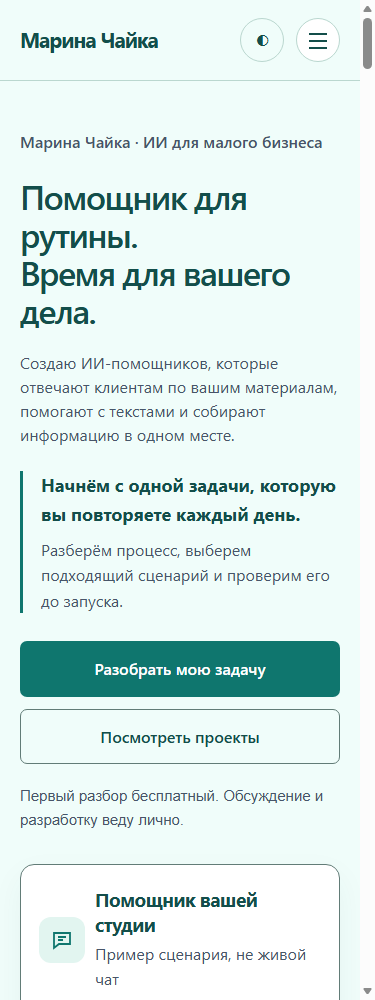
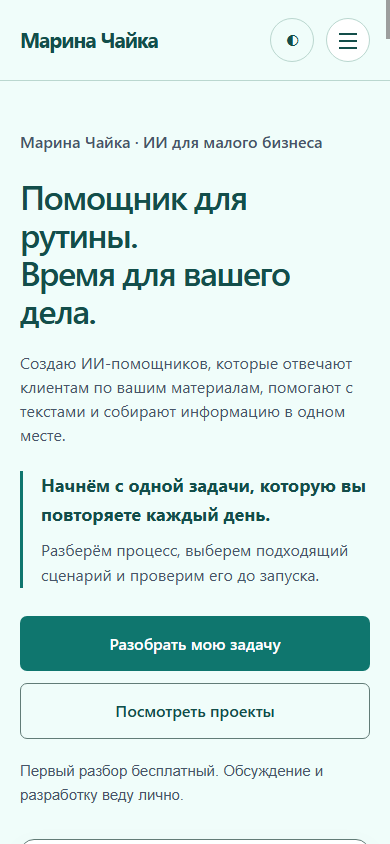
Redesign landing for AI assistants offer; add project documentation

diff --git a/privacy.html b/privacy.html
@@ -52,7 +52,7 @@
 
     <section aria-labelledby="browser-heading">
       <h2 id="browser-heading">4. Настройки браузера и внешние сервисы</h2>
-      <p>Лендинг сохраняет выбранную светлую или тёмную тему в localStorage под ключом «theme». Эта настройка не содержит имя, email или текст обращения. Её можно удалить, очистив данные сайта в браузере.</p>
+      <p>Переключение светлой и тёмной темы действует на текущей странице. Код сайта не сохраняет выбранную тему или ответы формы в localStorage, sessionStorage или cookies. При перезагрузке страница снова открывается в светлой теме.</p>
       <p>В текущем коде сайта нет счётчиков аналитики, рекламных пикселей или установки cookies. При этом провайдер размещения сайта может обрабатывать технические сведения запросов, например IP-адрес и данные браузера, в соответствии со своими условиями.</p>
       <p>На главной странице шрифты загружаются через Google Fonts. При загрузке браузер обращается к серверам Google и передаёт технические сведения запроса. Подробнее — в <a href="https://developers.google.com/fonts/faq/privacy" target="_blank" rel="noopener noreferrer">описании конфиденциальности Google Fonts</a>.</p>
       <p>При переходе в мессенджеры и отправке сообщений действуют также правила выбранного сервиса: <a href="https://telegram.org/privacy" target="_blank" rel="noopener noreferrer">Telegram</a> и <a href="https://www.whatsapp.com/legal/privacy-policy" target="_blank" rel="noopener noreferrer">WhatsApp</a>.</p>

diff --git a/index.html b/index.html
@@ -576,7 +576,7 @@
             <p>Разрабатываю сервис с кабинетом клиентов, подключением Яндекс.Директа и Метрики и обзором рекламных показателей. Отчёт сравнивает периоды и выделяет то, что требует внимания.</p>
             <p>На скриншотах — экраны текущей версии. Пример отчёта показан на демонстрационных данных.</p>
           </div>
-          <a href="#contact" class="btn btn-ghost" style="white-space:nowrap;">Обсудить похожую задачу</a>
+          <a href="https://direct-reports.vercel.app/demo" class="btn btn-ghost" target="_blank" rel="noopener noreferrer" aria-label="Открыть демо Direct Reports в новой вкладке">Открыть демо ↗</a>
           <div class="project-preview project-screenshots" aria-label="Скриншоты Direct Reports">
             <div class="preview-label">Direct Reports — экраны приложения</div>
             <div class="screenshots-grid">

diff --git a/README.md b/README.md
@@ -4,13 +4,37 @@
 
 Сайт на Vercel: https://my-lending-test-theta.vercel.app/ (ссылка из карточки GitHub; развёртывание текущего редизайна нужно проверять отдельно).
 
-Статический сайт на HTML, CSS и JavaScript без сборщика и собственного API. Основное предложение — ИИ-помощники для малого бизнеса. Реальные кейсы, цены и контакты сохранены.
+Сайт-портфолио Марины Чайки на HTML, CSS и JavaScript: услуги, цены и проекты. Основное предложение — ИИ-помощники для малого бизнеса. Самих ботов, нейросетей, сервера, базы данных и платежей в этом репозитории нет. Переписка на первом экране — демонстрация, не живой чат.
+
+## Что нужно для работы
+
+- Для просмотра — браузер и файлы проекта.
+- Для проверки кода — Node.js; в рабочей среде использовалась версия 24.
+- Для локального HTTP-сервера — Python 3, если выбираете этот способ запуска.
+- Для получения и отправки кода — Git и доступ к GitHub.
+
+Установка npm-пакетов не нужна: package.json, сборщика и внешних JavaScript-библиотек нет. API-ключи и .env не нужны: код не читает переменные окружения. Интернет нужен для Google Fonts и переходов во внешние сервисы; без веб-шрифтов используются системные sans-serif.
 
 ## Где искать и как открыть
 
-Рабочая копия GitHub на компьютере: `C:\Users\Марина\Documents\Projects\yandex-direct-lending\github-sync`.
+Рабочая копия GitHub на компьютере: `C:\Users\Марина\Documents\Projects\my-lending-test`.
 
-В Проводнике откройте эту папку и дважды нажмите `index.html`: сайт откроется в браузере. Для редактирования откройте папку `github-sync` в VS Code.
+В Проводнике откройте эту папку и дважды нажмите `index.html`: сайт откроется в браузере. Для редактирования откройте папку `my-lending-test` в VS Code.
+
+Для запуска через локальный сервер откройте терминал в папке проекта:
+
+```powershell
+python -m http.server 8000 --bind 127.0.0.1
+```
+
+Откройте `http://127.0.0.1:8000`. Остановка — `Ctrl+C`.
+
+На другом компьютере сначала получите проект:
+
+```powershell
+git clone https://github.com/chajjka93-source/my-lending-test.git
+cd my-lending-test
+```
 
 | Файл | Назначение |
 | --- | --- |
@@ -20,10 +44,64 @@
 | `assets/` | Фото автора и реальные скриншоты проектов |
 | `docs/AI-DESIGN.md` | Дизайн-система и проверки доступности |
 | `docs/TECHNICAL.md` | Устройство проекта и работа с Git |
-| `preview-desktop.png`, `preview-mobile.png` | Превью редизайна с системными шрифтами |
+| `ARCHITECTURE.md` | Части сайта, данные и связи; границы спецификации |
+| `CLAUDE.md`, `AGENTS.md` | Правила для AI-агентов |
+| `CHANGELOG.md` | История изменений |
+| `.env.example` | Почему ключи окружения сейчас не нужны |
+| `thoughts/shared/specs/` | Спецификация планируемого Telegram-бота |
+| `research.md`, `design-references.md` | Исследования и история дизайна |
+| `preview-desktop.png`, `preview-mobile.png` | Скриншоты, перезаписываемые `browser-review.cjs` |
+| `review-output/` | Локальные скриншоты светлой и тёмной тем на ширинах 1440 и 390 px из проверки 11 октября 2026 года |
 
 Дизайн: светлая бирюзовая палитра, Golos Text для заголовков и Source Sans 3 для текста. Предусмотрены тёмная тема и видимый клавиатурный фокус.
 
-Проверка кода из папки проекта: `node verify.cjs`. Формы готовят сообщение в браузере; посетитель самостоятельно отправляет его в Telegram.
+## Что работает
 
-Параллельная копия для ChatGPT Sites находится в `../studio-source`, где исходники лежат в `public/`, а публикуемая копия — в `dist/`. Не путайте её с этой структурой GitHub: здесь файлы сайта находятся в корне.
+Карточка Direct Reports в разделе кейсов содержит ссылку на внешнее [демо приложения](https://direct-reports.vercel.app/demo). Исходники этого приложения не входят в репозиторий лендинга.
+
+Светлая и тёмная темы, мобильное меню, FAQ, квиз из трёх шагов, проверка контактной формы, подготовка и копирование текста, ссылки на мессенджеры и email. Предусмотрены видимый клавиатурный фокус и уменьшенная анимация.
+
+По умолчанию главная страница открывается в светлой теме. Кнопка ◐ переключает светлую и тёмную темы на текущей странице. Формы не отправляют заявки: посетитель сам вставляет и отправляет текст в Telegram. Если копирование недоступно, сайт предлагает скопировать выделенный текст вручную. Код не сохраняет выбранную тему и ответы в localStorage, sessionStorage или cookies.
+
+Квиз спрашивает сферу бизнеса, цель и детали задачи; имя и описание нужны для подготовки запроса, ссылка на сайт или соцсети необязательна. Контактная форма проверяет имя, email и сообщение, затем показывает готовый текст. Можно вернуться к ответам квиза или контактной форме для редактирования.
+
+Спецификация в thoughts/shared/specs описывает будущий бот, панель мастеров, записи, напоминания и подписку. Их серверной реализации здесь нет. Подробности — в [ARCHITECTURE.md](ARCHITECTURE.md#спецификация-и-реализация).
+
+## Как проверить
+
+Из папки проекта:
+
+```powershell
+node verify.cjs
+git diff --check
+```
+
+`verify.cjs` проверяет синтаксис встроенного JavaScript, дубли ID, якоря и наличие `premium.css`. Это не проверка изображений, доступности или работы интерфейса. Отсутствие CSS выводится как `css: false`, но само по себе не устанавливает ненулевой код завершения. `git diff --check` проверяет ошибки пробелов в diff.
+
+Для браузерной проверки нужен отдельно запущенный Chromium-браузер с CDP на `127.0.0.1:9333`, отдельным профилем и хотя бы одной вкладкой, а также Node.js с встроенными `fetch` и `WebSocket` (здесь использовался Node.js 24):
+
+```powershell
+node browser-review.cjs
+```
+
+В текущем скрипте URL жёстко задан: `file:///C:/Users/Марина/Documents/Projects/my-lending-test/index.html`. На другом компьютере его нужно изменить. Скрипт сохраняет скриншоты на ширинах 1440 и 390 px, выводит ширину страницы и проверяет открытие меню, Escape, FAQ, подготовку сообщения контактной формы и возврат к форме. Он не переключает темы и не проверяет квиз, ошибки полей, копирование, Tab, изображения или ошибки браузерной консоли. Оценивайте значения в выводе: `false` в результатах взаимодействий не приводит к ненулевому коду завершения. Уточнение пути здесь соответствует коду; описание относительного пути в `docs/TECHNICAL.md` устарело.
+
+Перед завершением правок проверьте обе темы, меню и Escape, квиз, ошибки формы, копирование, FAQ и телефонную версию.
+
+11 октября 2026 года локально выполнены `verify.cjs`, `git diff --check` и `browser-review.cjs`. Дополнительная проверка через CDP охватила обе темы на 1440 и 390 px: переключение тем, прохождение и редактирование квиза, его ошибку при отсутствии выбора, ручной режим копирования и видимый фокус после Tab. Горизонтального переполнения и исключений JavaScript в этой дополнительной проверке не обнаружено; после принудительной загрузки отложенных изображений все изображения загрузились. Автоматическая запись в буфер обмена и опубликованная версия сайта не подтверждены. Скриншоты первых экранов сохранены в `review-output/`.
+
+## Настройки и публикация
+
+Тексты, цены, контакты и ссылки меняются в index.html. Текущий дизайн — в premium.css, подключённом после встроенных стилей. Секреты в HTML и CSS не добавляйте.
+
+В репозитории нет vercel.json и настроек автоматического развёртывания. Успешный push в GitHub не подтверждает публикацию Vercel. .openai/hosting.json содержит идентификатор проекта Sites, не настройки базы или API.
+
+Параллельная копия для ChatGPT Sites находится в `archive/migration-2026-10-10/yandex-direct-lending/studio-source`, где исходники лежат в `public/`, а публикуемая копия — в `dist/`. Не путайте её с этой структурой GitHub: здесь файлы сайта находятся в корне.
+
+## Перенос 10 октября 2026
+
+Единственная рабочая папка — `my-lending-test`; актуальный сайт — `index.html` в корне. Все материалы бывшей папки «Яндекс Директ» сохранены в `archive/migration-2026-10-10/yandex-direct-lending/`, включая незакоммиченные изменения, Git-истории, исходники Sites, проверки, превью и архивы. Прежнее содержимое этой папки сохранено в `archive/migration-2026-10-10/previous-local/`. Архив исключён из Git; в нём больше не ведём работу.
+
+Архив не участвует в работе текущего сайта. Исходники приложения Direct Reports не входят в рабочий код этого лендинга.
+
+На момент проверки 11 октября 2026 года локальная ветка — `main`, последний коммит в `git log` — `6c38cec` (`Update landing offer, review quiz and project screenshots`). `git diff` показывает незакоммиченный редизайн предложения под ИИ-помощников, светлую тему по умолчанию, изменения стилей и доступности, отказ от сохранения темы и обновление документации. Эти изменения уже находились в рабочей папке до проверки в этой сессии. Во время проверки код сайта не менялся; были перезаписаны `preview-desktop.png` и `preview-mobile.png`, созданы `review-output/` и временные профили браузера `.browser-check/`, `.browser-check-edge/`. Затем обновлены README и CLAUDE. Коммит, push и публикация в этой сессии не выполнялись. Незакоммиченные и неотслеживаемые файлы не попадут на другой компьютер через `git clone`.

diff --git a/CLAUDE.md b/CLAUDE.md
@@ -1,0 +1,56 @@
+# Правила для AI-агента
+
+## Постоянное правило
+
+После каждого изменения кода обновляй соответствующую документацию (README, ARCHITECTURE, CHANGELOG, .env.example). Документация всегда должна соответствовать коду.
+
+Перед завершением задачи проверь затронутые документы. Запуск и возможности описывай в README, устройство и данные — в ARCHITECTURE, историю — в CHANGELOG, реально используемые настройки — в .env.example. Не меняй не затронутые разделы и не придумывай ключи.
+
+## Контекст и структура
+
+Это статический сайт Марины Чайки с предложением ИИ-помощников и цифровых услуг. Код ботов, backend, база данных и платежи отсутствуют. Спецификация в `thoughts/shared/specs/` — план другого продукта; не выдавай её требования за реализованные функции сайта.
+
+Рабочая копия GitHub — корень `my-lending-test`, репозиторий `https://github.com/chajjka93-source/my-lending-test`, ветка `main`. Архивная `archive/migration-2026-10-10/yandex-direct-lending/studio-source` — отдельная копия Sites с другой структурой и историей.
+
+- `index.html` — контент, базовые стили, общий JavaScript и отдельный скрипт квиза.
+- `premium.css` — актуальный дизайн, подключён после встроенного CSS.
+- `privacy.html` — описание фактической обработки данных.
+- `assets/` — фото и реальные изображения кейсов.
+- `verify.cjs`, `browser-review.cjs` — инструменты проверки.
+- `README.md`, `ARCHITECTURE.md`, `CHANGELOG.md`, `.env.example` — основные документы.
+- `docs/AI-DESIGN.md` — дизайн-система; `docs/TECHNICAL.md` — Git и проверки.
+- `research.md`, `design-references.md` — история исследований.
+- `thoughts/shared/specs/` — спецификация будущего Telegram-бота.
+- `.openai/hosting.json` — сохранённый идентификатор Sites.
+- `preview-desktop.png`, `preview-mobile.png` — скриншоты, перезаписываемые браузерным скриптом; `review-output/` — локальные превью обеих тем, созданные отдельной проверкой 11 октября 2026 года.
+
+Главная страница по умолчанию светлая (`data-theme="light"`); кнопка `themeToggle` переключает темы без сохранения. Квиз собирает сферу, цель, имя, описание повторяющейся задачи и необязательную ссылку. Контактная форма проверяет имя, email и сообщение. Обе формы только формируют текст; копирование использует Clipboard API с ручным выделением текста при отказе. Сценарий помощника на первом экране — статический пример, без подключения к ИИ. Демо Direct Reports — внешняя ссылка, исходники приложения не входят в рабочий код лендинга.
+
+При проверке истории отделяй `git diff` от изменений текущей сессии: diff показывает все незакоммиченные изменения относительно HEAD. На 11 октября 2026 года локальный HEAD — `6c38cec`, ветка `main`; редизайн уже находился в рабочей папке до этой сессии. В этой сессии проверяли сайт, сохраняли скриншоты и обновляли документацию; коммит, push и публикация не выполнялись. Временные профили `.browser-check/` и `.browser-check-edge/` не являются исходниками сайта и не должны попадать в коммит или публикацию.
+
+## Правила изменений
+
+1. Читай код перед правками. Не добавляй React, npm-зависимости, сборщик или сервер ради текста и CSS.
+2. Сохраняй ID, используемые скриптами и якорями. При переименовании обновляй все ссылки и обработчики.
+3. Учитывай каскад CSS и поздние переопределения. Проверяй обе темы и мобильную версию.
+4. Формы только готовят текст. Не показывай «отправлено», пока реальной отправки нет. Пользователь сам отправляет сообщение в Telegram.
+5. При изменении обработки данных обновляй privacy.html. Сейчас ни тема, ни ответы не сохраняются в localStorage.
+6. Сохраняй реальные контакты, цены, статусы и изображения, если задача не требует их изменения. Не выдумывай отзывы, сертификаты и результаты.
+7. Сохраняй читаемый текст, видимый фокус, подписи и ошибки полей, inert для закрытого меню, Escape и prefers-reduced-motion.
+8. Не добавляй секреты в HTML, CSS, документы или конфигурацию Git. Сейчас .env.example содержит только комментарии: код не читает переменные окружения.
+9. Не утверждай, что push или публикация прошли, без успешного результата. У GitHub и Sites разные процессы публикации; настройки Vercel не подтверждены кодом.
+10. Не заменяй историю GitHub историей Sites, не применяй force push, сохраняй пользовательские изменения вне задачи.
+
+## Проверки
+
+Из корня репозитория выполни `node verify.cjs` и `git diff --check`. Для документации проверь ссылки, команды и соответствие коду. Для интерфейса проверь обе темы, телефон, Tab, Escape, квиз, форму, копирование и FAQ.
+
+`verify.cjs` проверяет синтаксис встроенных скриптов, дубли ID и якоря, выводит наличие `premium.css`. Значение `css: false` само по себе не меняет код завершения; проверяй вывод.
+
+`browser-review.cjs` требует уже запущенного Chromium-браузера с CDP на `127.0.0.1:9333`, отдельным профилем и хотя бы одной вкладкой; Node.js должен поддерживать встроенные `fetch` и `WebSocket`. Скрипт использует жёсткий URL `file:///C:/Users/Марина/Documents/Projects/my-lending-test/index.html`, несмотря на неиспользуемые импорты `path` и `pathToFileURL`. Не описывай путь как относительный; соответствующая фраза в `docs/TECHNICAL.md` устарела.
+
+Скрипт сохраняет `preview-desktop.png` и `preview-mobile.png` для ширин 1440 и 390 px, выводит ширину страницы и проверяет меню, Escape, FAQ, подготовку сообщения и возврат к контактной форме. Темы, квиз, ошибки полей, копирование, Tab, изображения и ошибки браузерной консоли нужно проверять отдельно. Не называй запуск полной проверкой интерфейса: оценивай значения в выводе, поскольку неуспешное взаимодействие (`false`) не устанавливает ненулевой код завершения. В этой сессии автоматическое копирование не подтверждено; проверен ручной режим.
+
+Для просмотра пользователем давай абсолютные кликабельные ссылки на реальные локальные файлы. Скриншот показывает сохранённый вид; для проверки кнопок нужно открыть `index.html` в браузере.
+
+В конце сообщи, что изменено, какие проверки прошли и что осталось непроверенным.

diff --git a/ARCHITECTURE.md b/ARCHITECTURE.md
@@ -1,0 +1,84 @@
+# Архитектура
+
+## Реализованный продукт
+
+Статический сайт-портфолио Марины Чайки на HTML, CSS и обычном JavaScript. Показывает услуги, цены и проекты. Пример ИИ-помощника на первом экране — демонстрация, не живой чат.
+
+Собственного сервера, API, базы данных, авторизации, платежей и обращения к нейросетям нет. Хостинг отдаёт файлы; сценарии выполняются в браузере.
+
+```mermaid
+flowchart LR
+    Hosting[Статический хостинг] --> Browser[Браузер посетителя]
+    Files[index.html, premium.css, assets] --> Browser
+    Fonts[Google Fonts] --> Browser
+    Browser --> Draft[Текст в поле формы]
+    Draft --> Clipboard[Копирование по нажатию]
+    Browser --> Messenger[Ссылка открывает мессенджер]
+    Clipboard --> User[Пользователь вставляет и отправляет текст]
+    Messenger --> User
+```
+
+## Части проекта
+
+| Часть | Где находится и что делает |
+| --- | --- |
+| Главная страница | `index.html`: предложение, пример ответа, квиз, автор, услуги, кейсы, процесс, цены, контакты и FAQ |
+| Базовый CSS | Встроенный `<style>` в `index.html` |
+| Текущий дизайн | `premium.css`, подключён после встроенного CSS и переопределяет его |
+| Общий JavaScript | Первый встроенный скрипт: тема, навигация, меню, FAQ, контактная форма |
+| Квиз | Второй встроенный скрипт: шаги, проверка ответов, подготовка и копирование запроса |
+| Изображения | `assets/marina-chaika.png`, `assets/ai-assistant/`, `assets/online-booking/`, `assets/direct-reports/` |
+| Политика | `privacy.html`, отдельная страница со своими стилями |
+| Размещение | `.openai/hosting.json` содержит только идентификатор проекта Sites |
+
+В HTML и скриптах остались счётчики и эффекты прежнего дизайна. Текущий CSS скрывает `.stats`, `.hero-bg`, `.glow`, `.floating-cta`, `.to-top` и отключает часть эффектов. Их наличие в коде не означает, что посетитель их видит.
+
+## Данные и связи
+
+Базы данных нет. Данные посетителя находятся в полях DOM и переменных JavaScript. Код не использует cookies, localStorage или sessionStorage. При перезагрузке его состояние сбрасывается; браузер может отдельно предлагать автозаполнение.
+
+| Сценарий | Вход | Результат |
+| --- | --- | --- |
+| `leadForm` | Имя, email, сообщение | Текст в `preparedMessage`, показ панели `successPanel` |
+| `reviewForm` | Сфера, цель, имя, описание задачи, необязательная ссылка | Текст в `reviewMessage`, показ `reviewResult` |
+| Переключатель темы | Нажатие кнопки | Меняет `data-theme` на `<html>`; начальная тема светлая, выбор не сохраняется |
+| FAQ | Нажатие вопроса | Открывает один ответ, закрывает остальные |
+| Мобильное меню | Кнопка, ссылка или Escape | Меняет видимость, `inert`, `aria-expanded` и клавиатурный фокус |
+
+Контактная форма проверяет обязательные поля, формат email, длину имени от 2 и сообщения от 5 символов. Квиз требует выбранные ответы первых двух шагов, имя и описание задачи от 5 символов на последнем шаге. При ошибке фокус перемещается к полю; после подготовки — к результату.
+
+Пользовательские данные вставляются в `.value` и `.textContent`. Формы не делают запросов к API и не отправляют сообщения. `navigator.clipboard.writeText` копирует текст по нажатию; при ошибке поле выделяется для ручного копирования. Ссылка `https://t.me/chajjka` открывает Telegram, после чего посетитель сам вставляет и отправляет текст. WhatsApp и email — обычные ссылки, MAX — текстовый номер.
+
+Google Fonts загружает Golos Text и Source Sans 3. При недоступности сети используются системные sans-serif. Хостинг и мессенджеры могут обрабатывать данные по своим правилам; их внутреннее хранение не описывается этим кодом.
+
+## Инструменты проверки
+
+- `verify.cjs`: встроенные модули Node.js `fs` и `vm`; проверяет синтаксис скриптов, дубли ID, якоря и наличие `premium.css`.
+- `browser-review.cjs`: `fs`, встроенные `fetch` и `WebSocket`; подключается к уже запущенному браузеру по `http://127.0.0.1:9333/json` через Chrome DevTools Protocol. Делает скриншоты на ширинах 1440 и 390, проверяет меню, FAQ и форму. Сам браузер не запускает.
+
+`browser-review.cjs` определяет путь `index.html` относительно своего расположения. Признаки действий выводятся в консоль; скрипт не превращает каждый отрицательный результат в ошибку выполнения. В рабочей среде использовался Node.js 24. npm-зависимостей нет.
+
+## Git и размещение
+
+GitHub: `https://github.com/chajjka93-source/my-lending-test`, ветка `main`. Файлы сайта находятся в корне.
+
+В карточке GitHub указана ссылка Vercel. В репозитории нет `vercel.json`, CI-сценариев или команды сборки; настройки Vercel по этому коду не подтверждены.
+
+`.openai/hosting.json` содержит `project_id`, но не `static.directory`. Соседняя копия `archive/migration-2026-10-10/yandex-direct-lending/studio-source` использует `public/` и `dist/` и другую историю Git. Не отправляйте её историю поверх GitHub. Временные credentials публикации не являются ключами сайта и не должны храниться в документах или `.env`.
+
+## Спецификация и реализация
+
+[Спецификация Telegram-бота](thoughts/shared/specs/2026-09-15-beauty-salon-booking-bot.md) описывает план MVP для студий красоты. Это не схема работающего backend этого сайта.
+
+| В спецификации | В текущем коде |
+| --- | --- |
+| Telegram-бот записи, отмены и переноса | Только описание кейса и скриншоты |
+| Панель мастеров, расписание, услуги | Реализации нет |
+| Backend и общая база студий | Реализации, миграций и выбранной СУБД нет |
+| Напоминания | Серверных задач и очереди нет |
+| Подписка и ЮKassa или аналог | Платежей и ключей нет |
+| Свободный AI-диалог | За рамками MVP спецификации; на сайте AI API нет |
+
+Планируемые сущности: `Studio`, `Master`, `Service`, `Client`, `Booking`, `Subscription`. Мастер связан со студией, услуга — с мастером, запись — с клиентом, мастером и услугой. Привязка подписки к мастеру или студии оставлена открытым вопросом. Таблиц этих сущностей в репозитории нет.
+
+Спецификация предлагает Node.js или Python, но реализованный стек бота не выбран этим кодом. `research.md` и `design-references.md` — исследования и прошлые варианты дизайна; фактическое поведение определяется исходниками.

diff --git a/docs/TECHNICAL.md b/docs/TECHNICAL.md
@@ -2,15 +2,17 @@
 
 Обновлено 10 октября 2026 года.
 
+Устройство проекта — в [ARCHITECTURE.md](../ARCHITECTURE.md), запуск — в [README.md](../README.md), правила агента — в [CLAUDE.md](../CLAUDE.md), история изменений — в [CHANGELOG.md](../CHANGELOG.md). Этот документ дополняет их сведениями о рабочих копиях и проверках.
+
 ## Репозиторий и структура
 
 GitHub: https://github.com/chajjka93-source/my-lending-test, ветка `main`.
 
-Локальный checkout: `C:\Users\Марина\Documents\Projects\yandex-direct-lending\github-sync`. Файлы сайта `index.html`, `premium.css`, `privacy.html` и `assets/` находятся в корне. Структура сохранена при переносе AI-редизайна; существующие исследования и спецификации оставлены в репозитории.
+Локальный checkout: `C:\Users\Марина\Documents\Projects\my-lending-test`. Файлы сайта `index.html`, `premium.css`, `privacy.html` и `assets/` находятся в корне. Структура сохранена при переносе AI-редизайна; существующие исследования и спецификации оставлены в репозитории.
 
 Исходный коммит GitHub перед редизайном: `6c38cec56ee5f562902b47cec2ef28294fbc1a1c`. Изменения внесены поверх этой истории, без force push и замены удалённой истории коммитами Sites.
 
-Отдельный checkout Sites — `../studio-source`. В нём файлы находятся в `public/` и `dist/`, а история Git отличается от GitHub. AI-редизайн первоначально сохранён там в `bba7cc1`, уточнения документации — в `e667647` и `197d02a`. Для отправки на GitHub редактировать текущий checkout `github-sync`.
+Отдельный checkout Sites — `archive/migration-2026-10-10/yandex-direct-lending/studio-source`. В нём файлы находятся в `public/` и `dist/`, а история Git отличается от GitHub. AI-редизайн первоначально сохранён там в `bba7cc1`, уточнения документации — в `e667647` и `197d02a`. Для отправки на GitHub редактировать корень `my-lending-test`.
 
 ## Интерфейс и данные
 
@@ -24,13 +26,15 @@ GitHub: https://github.com/chajjka93-source/my-lending-test, ветка `main`.
 
 `node verify.cjs` проверяет синтаксис встроенных скриптов, дубли ID и якоря.
 
+browser-review.cjs подключается к уже запущенному браузеру через http://127.0.0.1:9333/json. Использует встроенные fetch и WebSocket Node.js; в рабочей среде использовался Node.js 24. Путь index.html определяется относительно расположения скрипта. Браузер запускается отдельно с --remote-debugging-port=9333 и отдельным профилем. Скрипт создаёт preview-desktop.png и preview-mobile.png; признаки успешных действий нужно оценивать по консоли. Проверки квиза и контраста в этом файле отсутствуют.
+
 Для редизайна проверены локальные ссылки и подписи полей, обе темы, ширины 375/768/1024/1440 без горизонтального переполнения, фокус, меню, квиз, контактная форма и FAQ. Минимальное соотношение проверенных текстовых токенов — 4.84:1. Превью получены с системными шрифтами: загрузка Google Fonts в этой среде не подтверждена.
 
 ## Отправка и публикация
 
 В этой копии `origin` указывает на `https://github.com/chajjka93-source/my-lending-test.git`. Перед изменениями получить удалённую историю; после проверок создать коммит и выполнить обычный push в `main`. Проверять фактический результат команды, не считать локальный коммит отправленным автоматически.
 
-10 октября 2026 года подтверждён успешный push редизайна: `6c38cec → fc1a6bd` в `main`. Авторизация выполнена через сохранённую учётную запись Git Credential Manager. Коммит с записью результата отправляется отдельно.
+10 октября 2026 года подтверждён успешный push редизайна fc1a6bd и записи результата dddfcfd в main. Авторизация выполнена через сохранённую учётную запись Git Credential Manager.
 
 Карточка GitHub содержит адрес `https://my-lending-test-theta.vercel.app/`. Настройки подключения Vercel и результат автоматического развёртывания проверяются отдельно: успешный push сам по себе не подтверждает публикацию.
 

diff --git a/CHANGELOG.md b/CHANGELOG.md
@@ -1,0 +1,46 @@
+# История изменений
+
+## Исключение временных профилей браузера — 11 октября 2026
+
+- В `.gitignore` добавлены `.browser-check/` и `.browser-check-edge/`: это профили для `browser-review.cjs`, не исходники сайта. Код сайта не менялся.
+
+## Окончательное объединение папок лендинга — 10 октября 2026
+
+- По указанию владельца для лендинга оставлена одна рабочая папка `my-lending-test`.
+- Все 2051 файла `yandex-direct-lending` проверены по SHA-256 в `archive/migration-2026-10-10/yandex-direct-lending`, после чего исходная папка удалена. Новых отличий от архива не обнаружено.
+- Актуальные файлы лендинга в корне, включая кнопку демо Direct Reports, сохранены. Отдельное приложение `Documents/Projects/direct-reports` не изменялось.
+
+## Восстановление отдельного Direct Reports — 10 октября 2026
+
+- По просьбе владельца репозиторий `chajjka93-source/direct-reports` клонирован в `C:\Users\Марина\Documents\Projects\direct-reports`, ветка `main`, коммит `b70f38f36311e80d445be833cfc08e9a622b9f43` от 6 октября. Проверка `git fsck --full` прошла.
+- Существующая `.env.local` скопирована из `Downloads/direct-reports-main/direct-reports-main`; настройки исключены из Git. Исходная копия сохранена. Это отдельное приложение, не папка лендинга.
+
+## Не опубликовано — демо Direct Reports
+
+- В карточку Direct Reports добавлена кнопка «Открыть демо» со ссылкой https://direct-reports.vercel.app/demo, предоставленной владельцем. Демо открывается в новой вкладке.
+
+## Не опубликовано — перенос в my-lending-test
+
+- По просьбе владельца папка yandex-direct-lending восстановлена по прежнему пути из архива; проверены контрольные суммы всех 2051 файлов. Копия архива сохранена. Исходники отдельного Direct Reports найдены в Downloads/direct-reports-main/direct-reports-main и при переносе не затрагивались.
+
+- Все материалы yandex-direct-lending перенесены в локальный архив внутри my-lending-test.
+- Свежие файлы github-sync, включая незакоммиченные правки, восстановлены в корне; прежние файлы и Git-истории сохранены.
+- Исправлены рабочие пути, архив исключён из Git, путь браузерной проверки определяется автоматически.
+
+## Не опубликовано — документация
+
+- Описаны запуск, зависимости, архитектура и данные по текущему коду.
+- Добавлены CLAUDE.md и AGENTS.md с правилом обновления документации.
+- Добавлен .env.example без выдуманных ключей, защита окружения в .gitignore.
+- Спецификация Telegram-бота отделена от реализованного сайта.
+- Исправлено описание сохранения темы в privacy.html: код её не сохраняет.
+
+## 10 октября 2026
+
+- `fc1a6bd`: редизайн предложения ИИ-помощника, бирюзовая палитра, две темы, Golos Text и Source Sans 3, фокус, квиз и доступность форм, обновлённые превью.
+- `dddfcfd`: записан успешный push редизайна в GitHub.
+- Push этих коммитов в main подтверждён. Публикация на Vercel и новой версии Sites не подтверждена.
+
+## 8 октября 2026
+
+- `6c38cec`: обновлены предложение лендинга, квиз разбора и скриншоты проектов. Исходная версия GitHub перед переносом AI-редизайна.

diff --git a/docs/AI-DESIGN.md b/docs/AI-DESIGN.md
@@ -1,6 +1,6 @@
 # Дизайн ИИ-сервиса Марины Чайки
 
-Выбрано после запуска `.claude/skills/ui-ux-pro-max/scripts/search.py` с `--design-system`, поисков по UX, типографике и стеку html-tailwind. Реализация сохраняет существующий HTML/CSS без добавления сборщика.
+Выбрано после запуска ui-ux-pro-max/scripts/search.py с --design-system и поисков по UX, типографике и стеку html-tailwind. Skill находился в родительской рабочей папке .claude/skills/ui-ux-pro-max, вне этого GitHub-репозитория. Для запуска сайта skill не требуется. Реализация сохраняет существующий HTML/CSS без добавления сборщика.
 
 Стиль: спокойная технологическая мастерская. Слева задача бизнеса и действие, справа понятный пример ответа помощника с источником и передачей вопроса человеку. Демонстрация явно обозначена как пример. Реальные кейсы, контактные данные и цены сохранены.
 
@@ -23,4 +23,4 @@ Golos Text — заголовки, Source Sans 3 — основной текст
 
 Критерии контраста и фокуса: https://www.w3.org/WAI/WCAG22/Understanding/contrast-minimum.html и https://www.w3.org/WAI/WCAG22/Understanding/focus-visible.html. Полное соответствие WCAG требует отдельного аудита.
 
-Проверки 10 октября 2026: локальные файлы, якоря, уникальные ID, подписи полей, синтаксис JavaScript, совпадение public/dist. Расчёт текстовых токенов обеих тем: минимальное соотношение 4.84:1. В Edge проверены ширины 375/768/1024/1440 без горизонтального переполнения, первый Tab и фокус 3px, темы, меню и Escape, ошибки и редактирование квиза и формы, FAQ и контраст фактического текста. Внешние Google Fonts блокировались в браузерной проверке из-за сетевой недоступности; скриншоты подтверждают системные шрифты, загрузка выбранных веб-шрифтов не подтверждена.
+Проверки 10 октября 2026 выполнены до переноса из Sites в GitHub: локальные файлы, якоря, ID, подписи полей, JavaScript и совпадение public/dist в копии Sites. В GitHub сайт находится в корне, public/dist нет. Минимальный контраст проверенных текстовых токенов — 4.84:1. В Edge проверены ширины 375/768/1024/1440, отсутствие переполнения, Tab и фокус, темы, меню и Escape, квиз, форма, FAQ и контраст текста. Google Fonts блокировались из-за сетевой недоступности; превью подтверждают системные шрифты, загрузка веб-шрифтов не подтверждена. Расширенный сценарий проверок хранится вне репозитория; browser-review.cjs покрывает только часть перечисленного.

diff --git a/AGENTS.md b/AGENTS.md
@@ -1,0 +1,5 @@
+# Инструкции для агентов
+
+Перед работой прочитай [CLAUDE.md](CLAUDE.md) и следуй его правилам: там структура проекта, границы реализации и проверки.
+
+Постоянное правило: «После каждого изменения кода обновляй соответствующую документацию (README, ARCHITECTURE, CHANGELOG, .env.example). Документация всегда должна соответствовать коду.»
